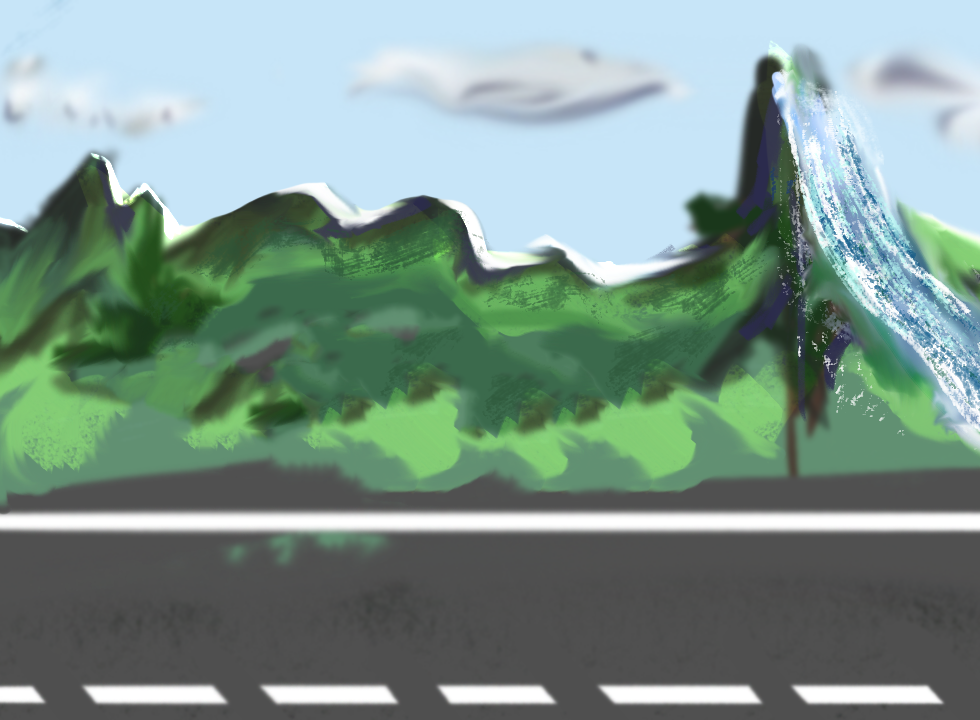
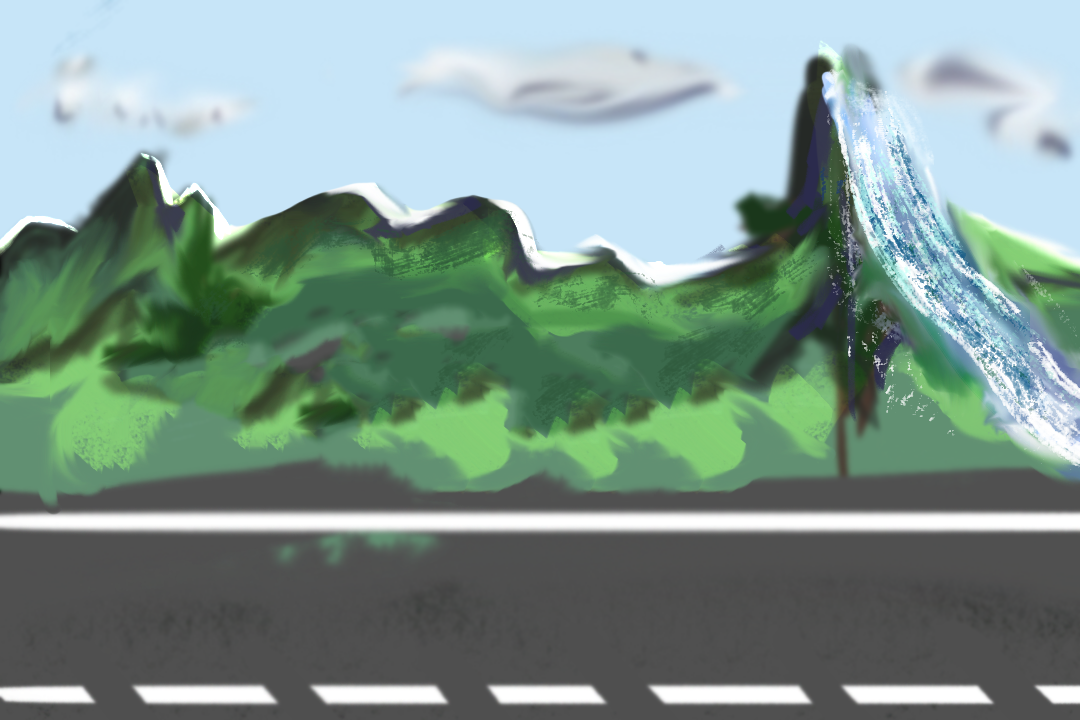
added up press in order to down press, startscreen

diff --git a/src/scripts/DebugginDaOpps/MicroGame11.js b/src/scripts/DebugginDaOpps/MicroGame11.js
@@ -21,6 +21,8 @@ export default class MicroGame11 extends Phaser.Scene {
     this.playerPumps = 0;
     this.clickAvailable = true;
     this.clickTimer = 0;
+    this.downWasPressed = false;
+    this.upWasPressed = true;
   }
 
   preload() {
@@ -44,34 +46,41 @@ export default class MicroGame11 extends Phaser.Scene {
     this.load.spritesheet(
       "car25",
       new URL("./assets/25car_spritesheet.png", import.meta.url).href,
-      { frameWidth: 980, frameHeight: 720 }
+      { frameWidth: 1080, frameHeight: 720 }
     );
 
     this.load.spritesheet(
       "car50",
       new URL("./assets/50car_spritesheet.png", import.meta.url).href,
-      { frameWidth: 980, frameHeight: 720 }
+      { frameWidth: 1080, frameHeight: 720 }
     );
 
     this.load.spritesheet(
       "car75",
       new URL("./assets/75car_spritesheet.png", import.meta.url).href,
-      { frameWidth: 980, frameHeight: 720 }
+      { frameWidth: 1080, frameHeight: 720 }
     );
 
     this.load.spritesheet(
       "car100",
       new URL("./assets/100car_spritesheet.png", import.meta.url).href,
-      { frameWidth: 980, frameHeight: 720 }
+      { frameWidth: 1080, frameHeight: 720 }
     );
   }
 
   create() {
-    this.add.image(980 / 2, 720 / 2, "background");
-    this.add.image(980 / 2, 720 / 2, "pumpgame_bg");
-    // this.add.image(980 / 2, 720 / 2, "temp_car_bg");
-    this.lever = this.physics.add.sprite(900, 480, "lever");
-    this.car25 = this.physics.add.sprite(980 / 2, 355, "car25");
+    this.add.image(1080 / 2, 720 / 2, "background");
+    this.add.image(1080 / 2, 720 / 2, "pumpgame_bg");
+    // this.add.image(1080 / 2, 720 / 2, "temp_car_bg");
+    this.lever = this.physics.add.sprite(955, 480, "lever");
+    this.car25 = this.physics.add.sprite(540, 350, "car25");
+    this.car50 = this.physics.add.sprite(540, 350, "car50");
+    this.car75 = this.physics.add.sprite(540, 350, "car75");
+    this.car100 = this.physics.add.sprite(540, 350, "car100");
+
+    this.car50.visible = false;
+    this.car75.visible = false;
+    this.car100.visible = false;
 
     this.cursors = this.input.keyboard.createCursorKeys();
 
@@ -194,9 +203,17 @@ export default class MicroGame11 extends Phaser.Scene {
       this.clickTimer += delta;
       this.timerCountdown(time);
       if (this.clickTimer > 100) this.clickAvailable = true;
-      if (this.cursors.up.isDown) {
+      if (this.cursors.up.isDown && this.downWasPressed) {
+        this.downWasPressed = false;
+        this.upWasPressed = true;
         this.lever.anims.play("lever-up", true);
-      } else if (this.cursors.down.isDown && this.clickAvailable) {
+      } else if (
+        this.cursors.down.isDown &&
+        this.clickAvailable &&
+        this.upWasPressed
+      ) {
+        this.downWasPressed = true;
+        this.upWasPressed = false;
         this.time.delayedCall(100, this.updatePump, [], this);
         this.clickAvailable = false;
         this.clickTimer = 0;
@@ -205,8 +222,7 @@ export default class MicroGame11 extends Phaser.Scene {
   }
 
   timerCountdown(time) {
-    console.log(this.car25);
-    if (time / 1000 > 3 && this.playerPumps < this.pumpToWin) {
+    if (time / 1000 > 8 && this.playerPumps < this.pumpToWin) {
       this.gameState = false;
       this.endText = this.add.text(300, 360, "You lose!");
       this.endText.setStyle({
@@ -231,19 +247,25 @@ export default class MicroGame11 extends Phaser.Scene {
     this.playerPumps += 1;
 
     this.lever.anims.play("lever-down", true);
-    this.car25.anims.play("car-inflate-25%", true);
-    // if (this.playerPumps === 5) {
-    //   this.car25.anims.play("car-inflate-25%", true);
-    // }
-    // if (this.playerPumps === 10) {
-    //   this.car50.anims.play("car-inflate-50%", true);
-    // }
-    // if (this.playerPumps === 15) {
-    //   this.car75.anims.play("car-inflate-75%", true);
-    // }
-    // if (this.playerPumps === 20) {
-    //   this.car100.anims.play("car-inflate-100%", true);
-    // }
+    if (this.playerPumps === 5) {
+      this.car25.visible = true;
+      this.car25.anims.play("car-inflate-25%", true);
+    }
+    if (this.playerPumps === 10) {
+      this.car50.visible = true;
+      this.car50.anims.play("car-inflate-50%", true);
+      this.car25.visible = false;
+    }
+    if (this.playerPumps === 15) {
+      this.car75.visible = true;
+      this.car75.anims.play("car-inflate-75%", true);
+      this.car50.visible = false;
+    }
+    if (this.playerPumps === 20) {
+      this.car100.visible = true;
+      this.car100.anims.play("car-inflate-100%", true);
+      this.car75.visible = false;
+    }
   }
   setText() {
     this.startText = this.add.text(360, 300, "");

diff --git a/src/scripts/main.js b/src/scripts/main.js
@@ -8,7 +8,7 @@ import MicroGame31 from "./Team4/MicroGame31";
 // Set configuration for phaser game instance
 const config = {
   type: Phaser.AUTO,
-  width: 980,
+  width: 1080,
   height: 720,
   backgroundColor: "#808080",
   // Add physics, arcade, scene, and audio
